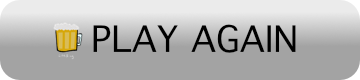
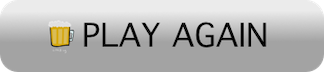
update final score and particle

diff --git a/src/MainScene.js b/src/MainScene.js
@@ -3,12 +3,13 @@ import Phaser from 'phaser';
 import background from './assets/images/backgrounds/1.png';
 import logo from './assets/images/objects/logo.png';
 import howto from './assets/images/objects/howto.png';
+import btnPlayAgain from './assets/images/objects/btnPlayAgain.png';
+import bgFinalScore from './assets/images/objects/bgFinalScore.png';
 import sndBgMp3 from "./assets/sounds/bg.mp3";
 import sndBgOgg from "./assets/sounds/bg.ogg";
 
 import flaresPng from './assets/particles/flares.png';
 import flaresJson from './assets/particles/flares.json';
-
 
 import {ProgressBar} from './progressbar.js';
 import {ScorePoint} from './scorepoint.js'
@@ -60,15 +61,15 @@ export class MainScene extends Phaser.Scene
         
         this.background = this.add.sprite(this.game.config.width / 2, 520, 'background');
         this.showlogoAndHowToPlay();  
-
-        this.particles = this.add.particles('flares');
         
     }
     static loading(scene){
-
         scene.load.image('background', background);     
         scene.load.image('howto', howto);
         scene.load.image('logo', logo);
+        scene.load.image('btnPlayAgain', btnPlayAgain);
+        scene.load.image('bgFinalScore', bgFinalScore);
+
         scene.load.audio('sndBg', [sndBgMp3, sndBgOgg]);
         
         scene.load.atlas('flares', flaresPng, flaresJson);
@@ -181,30 +182,45 @@ export class MainScene extends Phaser.Scene
     }
 
     showGameover(){
+        let bgFinalScore = this.add.sprite(this.game.config.width / 2, 780, 'bgFinalScore');
+        let txtFinallScore = this.add.bitmapText(this.game.config.width / 2, 790, 'atari-1', this.scorePoint.point, 60).setOrigin(0.5);
+        let btnPlayAgain = this.add.sprite(this.game.config.width / 2, 900, 'btnPlayAgain')
+            .setInteractive()
+            .on('pointerdown', ()=>{
+            this.resetStartGame();                        
+            btnPlayAgain.destroy();
+            bgFinalScore.destroy();
+            txtFinallScore.destroy();
+        });
+
+        if (this.particles){
+            this.particles.destroy();          
+        }
+        this.particles = this.add.particles('flares');
+
         let pars = [];
+
         for(var i=0; i< 4; i++){
             let par = this.particles.createEmitter({
                 frame: [ 'red', 'yellow', 'green', 'white' ],
-                x: 400 + (i*50), y: 300 ,
+                x: (this.game.config.width / 2) + (i*50), y: 780  ,
                 lifespan: 1000,
                 speed: { min: 100, max: 250 },
                 scale: { start: 0.2, end: 0 },
                 gravityY: 500,
-                blendMode: 'ADD'
+                blendMode: 'ADD',
+                
             });
+            
             pars.push(par);
         }
+        
         
         setTimeout(()=>{
             pars.forEach((e)=>{
                 e.stop();
-            });
-            this.resetStartGame();
-            
+            });            
         }, 50);
-
-        
-
     }
 
     setPlayerComeIn(){

diff --git a/src/progressbar.js b/src/progressbar.js
@@ -55,9 +55,7 @@ export class ProgressBar {
         }else{            
             this.gameover = true;
             this.cb();
-            
         }
-        
     }
     preload(){        
     }
@@ -75,6 +73,7 @@ export class ProgressBar {
             this.pgProgress.x += this.pgProgress.width/100 * percentX;
         }        
     }
+    
     addGameoverFunc(cb){
         this.cb = cb;
     }
